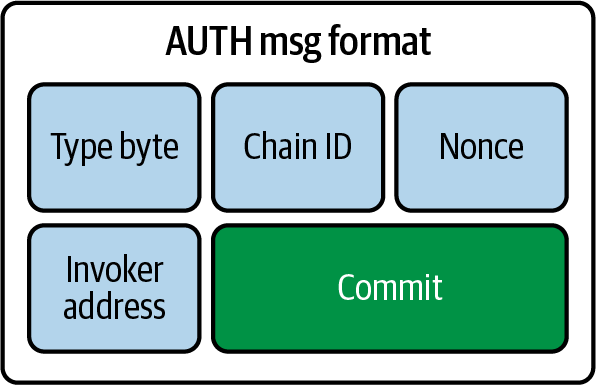
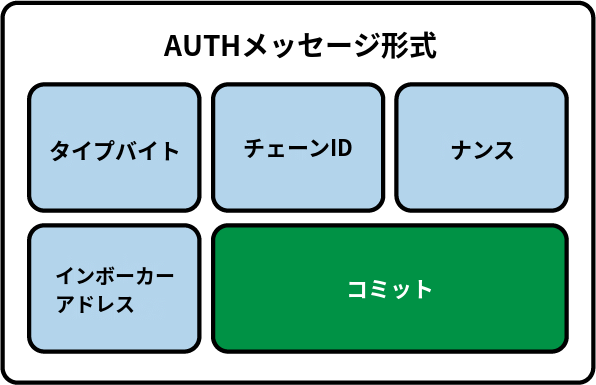
feat(ch5-images): localize 9 Ch5 diagrams (Closes #136)
Translate diagram text in Ch5 figures (HD wallet, BIP39 mnemonic flow,
ERC-4337 sequence/flow, EIP-3074 commitment/multicall/delegation, and
EIP-2429 social recovery) into Japanese using the OCR + inpaint pipeline.

Adds Noto Sans CJK fallback to scripts/translate_image.py so the script
runs on Linux as well as macOS. Skip maet_0504 (BIP39 tool screenshot).

diff --git a/scripts/translate_image.py b/scripts/translate_image.py
@@ -45,8 +45,25 @@ import numpy as np
 from PIL import Image, ImageDraw, ImageFont
 import easyocr
 
-FONT_BOLD = "/System/Library/Fonts/ヒラギノ角ゴシック W6.ttc"
-FONT_REGULAR = "/System/Library/Fonts/ヒラギノ角ゴシック W3.ttc"
+import os
+
+
+def _pick_font(candidates: list[str]) -> str:
+    """Return the first existing font path from candidates."""
+    for path in candidates:
+        if os.path.exists(path):
+            return path
+    return candidates[0]
+
+
+FONT_BOLD = _pick_font([
+    "/System/Library/Fonts/ヒラギノ角ゴシック W6.ttc",
+    "/usr/share/fonts/opentype/noto/NotoSansCJK-Bold.ttc",
+])
+FONT_REGULAR = _pick_font([
+    "/System/Library/Fonts/ヒラギノ角ゴシック W3.ttc",
+    "/usr/share/fonts/opentype/noto/NotoSansCJK-Regular.ttc",
+])
 
 
 def detect_text(image_path: str) -> list[dict]:
